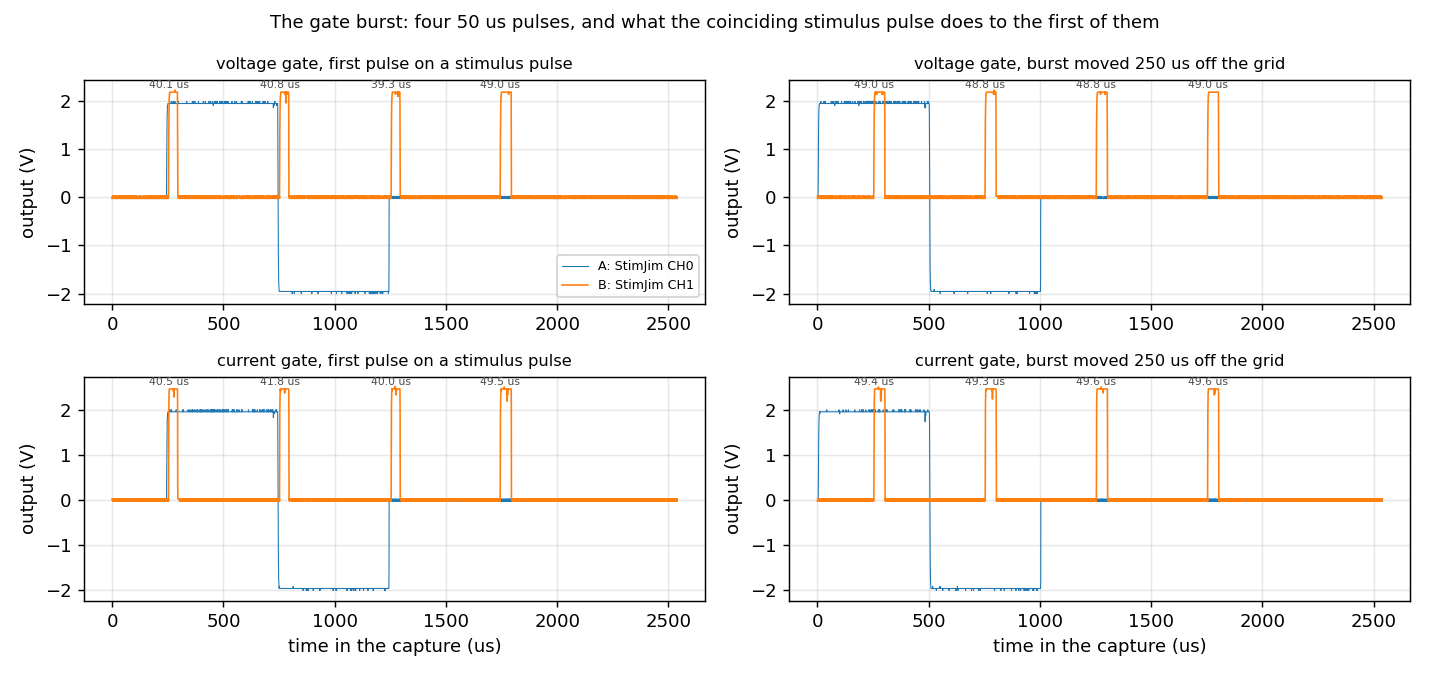
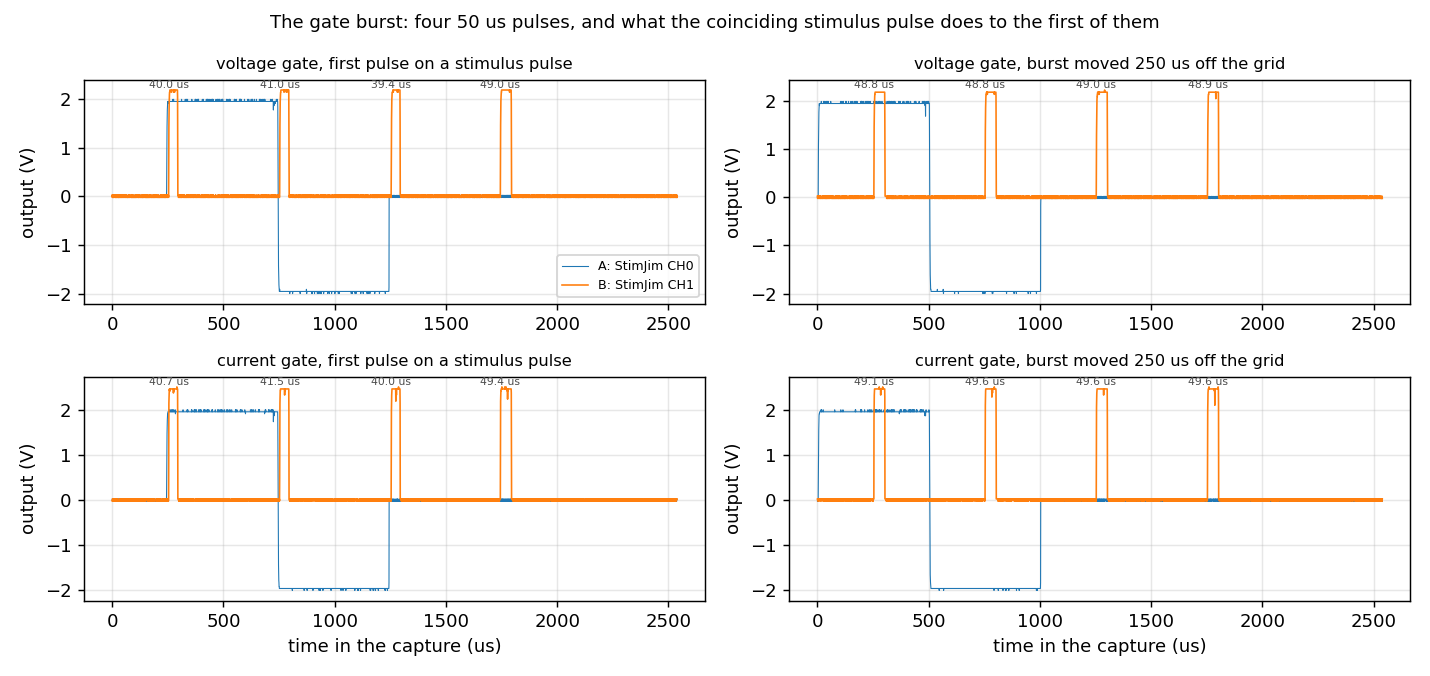
Mark the gate burst on the overview, and save every use-case capture
At 164 us per sample a 200 us gate burst mostly falls between samples, so
the overview looked as though nothing happened at 500 ms. It now marks where
the burst is and says why it cannot be resolved there.

All five captures per mode are written to tmp/ as well, so any of the three
use-case figures can be redrawn without occupying the bench.

diff --git a/tests/device/dualchan.py b/tests/device/dualchan.py
@@ -900,6 +900,15 @@ def usecase_figures(res):
         t = [i * dt * 1e3 for i in range(len(ch[ps.CHANNEL_A]))]
         ax.plot(t, ch[ps.CHANNEL_A], lw=0.6, label=NAME[ps.CHANNEL_A])
         ax.plot(t, ch[ps.CHANNEL_B], lw=0.9, label=NAME[ps.CHANNEL_B])
+        # The burst is 200 us of activity in 650 ms and the record samples
+        # every 164 us, so most of it falls between samples. Mark where it is
+        # rather than leave the trace looking as if nothing happened there.
+        ax.axvline(GATE_DELAY_US / 1000, color="C3", lw=1.0, ls="--")
+        ax.annotate(f"gate burst\n(4 x {GATE_WIDTH_US} us, too narrow to\n"
+                    f"resolve at {dt*1e6:.0f} us per sample)",
+                    (GATE_DELAY_US / 1000, ax.get_ylim()[1]), fontsize=7,
+                    ha="right", va="top", color="C3",
+                    xytext=(-5, -2), textcoords="offset points")
         ax.set_ylabel("output (V)")
         ax.set_title(f"gate in {m} mode", fontsize=9)
         ax.grid(alpha=0.3)
@@ -978,19 +987,23 @@ def usecase_figures(res):
     fig.savefig(FIGS / "stimjim-usecase-collision.png")
     plt.close(fig)
 
-    # The raw coincidence captures, so the figure above can be redrawn without
-    # occupying the bench again.
+    # Every raw capture, so the figures above can be redrawn without occupying
+    # the bench again. The coincidence record is referenced to the gate edge a
+    # quarter of the way into it; the rest start at the trigger.
     for m in modes:
-        dt, ch = res[m]["collide"]
-        n = len(ch[ps.CHANNEL_A])
-        with open(TMP / f"stimjim-usecase-collision-{m}.csv", "w",
-                  newline="") as fh:
-            w = csv.writer(fh)
-            w.writerow(["t_us_from_gate_edge", "ch0_V", "ch1_V"])
-            for i in range(n):
-                w.writerow([f"{(i - n/4) * dt * 1e6:.4f}",
-                            f"{ch[ps.CHANNEL_A][i]:.4g}",
-                            f"{ch[ps.CHANNEL_B][i]:.4g}"])
+        for key, zero in (("overview", 0.0), ("stim", 0.1),
+                          ("gate", 0.1), ("gate_staggered", 0.1),
+                          ("collide", 0.25)):
+            dt, ch = res[m][key]
+            n = len(ch[ps.CHANNEL_A])
+            with open(TMP / f"stimjim-usecase-{key}-{m}.csv", "w",
+                      newline="") as fh:
+                w = csv.writer(fh)
+                w.writerow(["t_us_from_trigger_point", "ch0_V", "ch1_V"])
+                for i in range(n):
+                    w.writerow([f"{(i - n * zero) * dt * 1e6:.4f}",
+                                f"{ch[ps.CHANNEL_A][i]:.4g}",
+                                f"{ch[ps.CHANNEL_B][i]:.4g}"])
 
     with open(TMP / "stimjim-usecase.csv", "w", newline="") as fh:
         w = csv.writer(fh)
